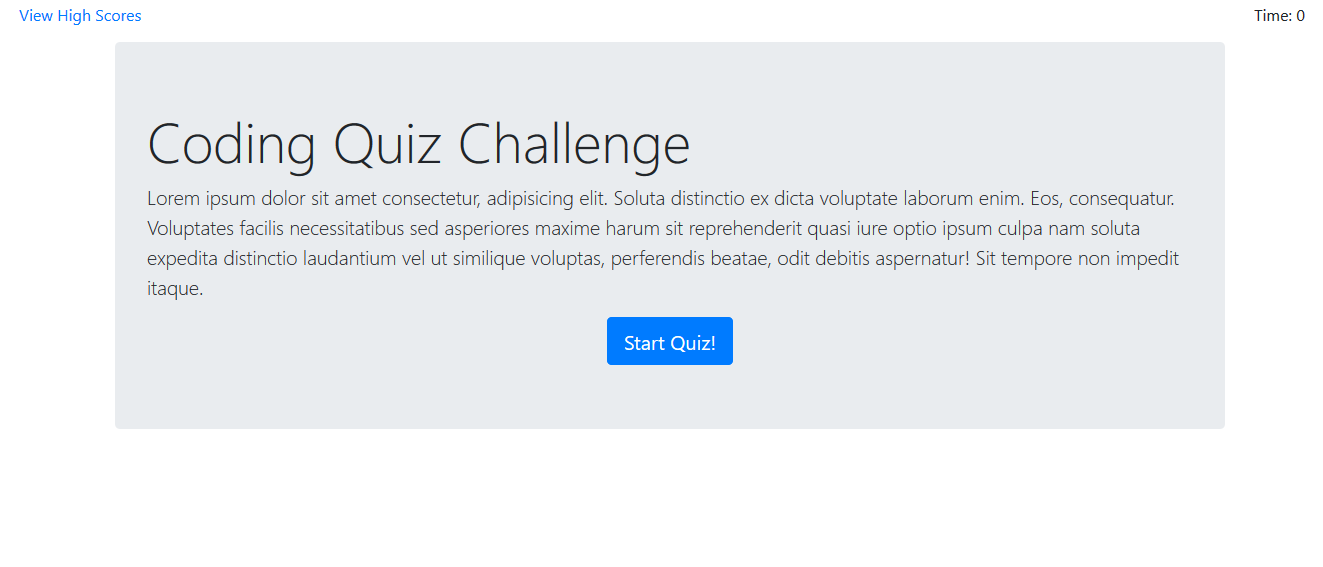
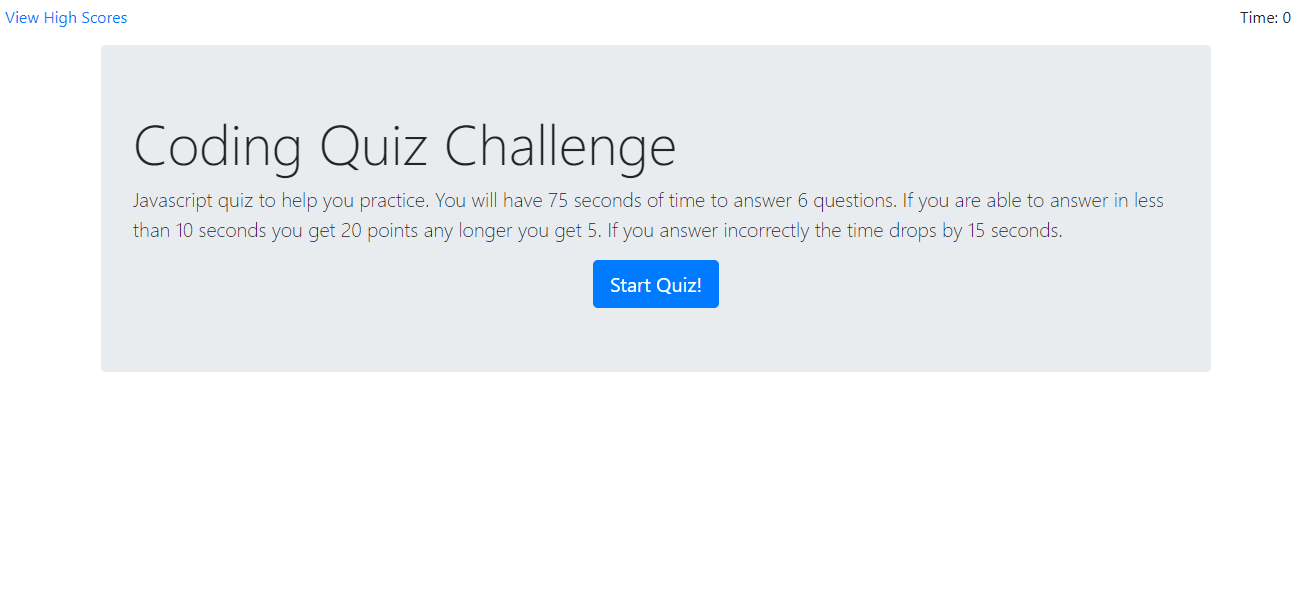
added short description to jumbotron

diff --git a/index.html b/index.html
@@ -34,10 +34,9 @@
       <div id="start-section" class="jumbotron">
         <h1 class="display-4">Coding Quiz Challenge</h1>
         <p class="lead">
-          Lorem ipsum dolor sit amet consectetur, adipisicing elit. Soluta distinctio ex dicta voluptate laborum enim.
-          Eos, consequatur. Voluptates facilis necessitatibus sed asperiores maxime harum sit reprehenderit quasi iure
-          optio ipsum culpa nam soluta expedita distinctio laudantium vel ut similique voluptas, perferendis beatae,
-          odit debitis aspernatur! Sit tempore non impedit itaque.
+          Javascript quiz to help you practice. You will have 75 seconds of time to answer 6 questions. If you are able
+          to answer a question in less than 10 seconds you get 20 points; any longer you get 5. If you answer
+          incorrectly the time drops by 15 seconds.
         </p>
         <div class="text-center"><button id="start" class="btn btn-primary btn-lg mx-auto">Start Quiz!</button></div>
       </div>
